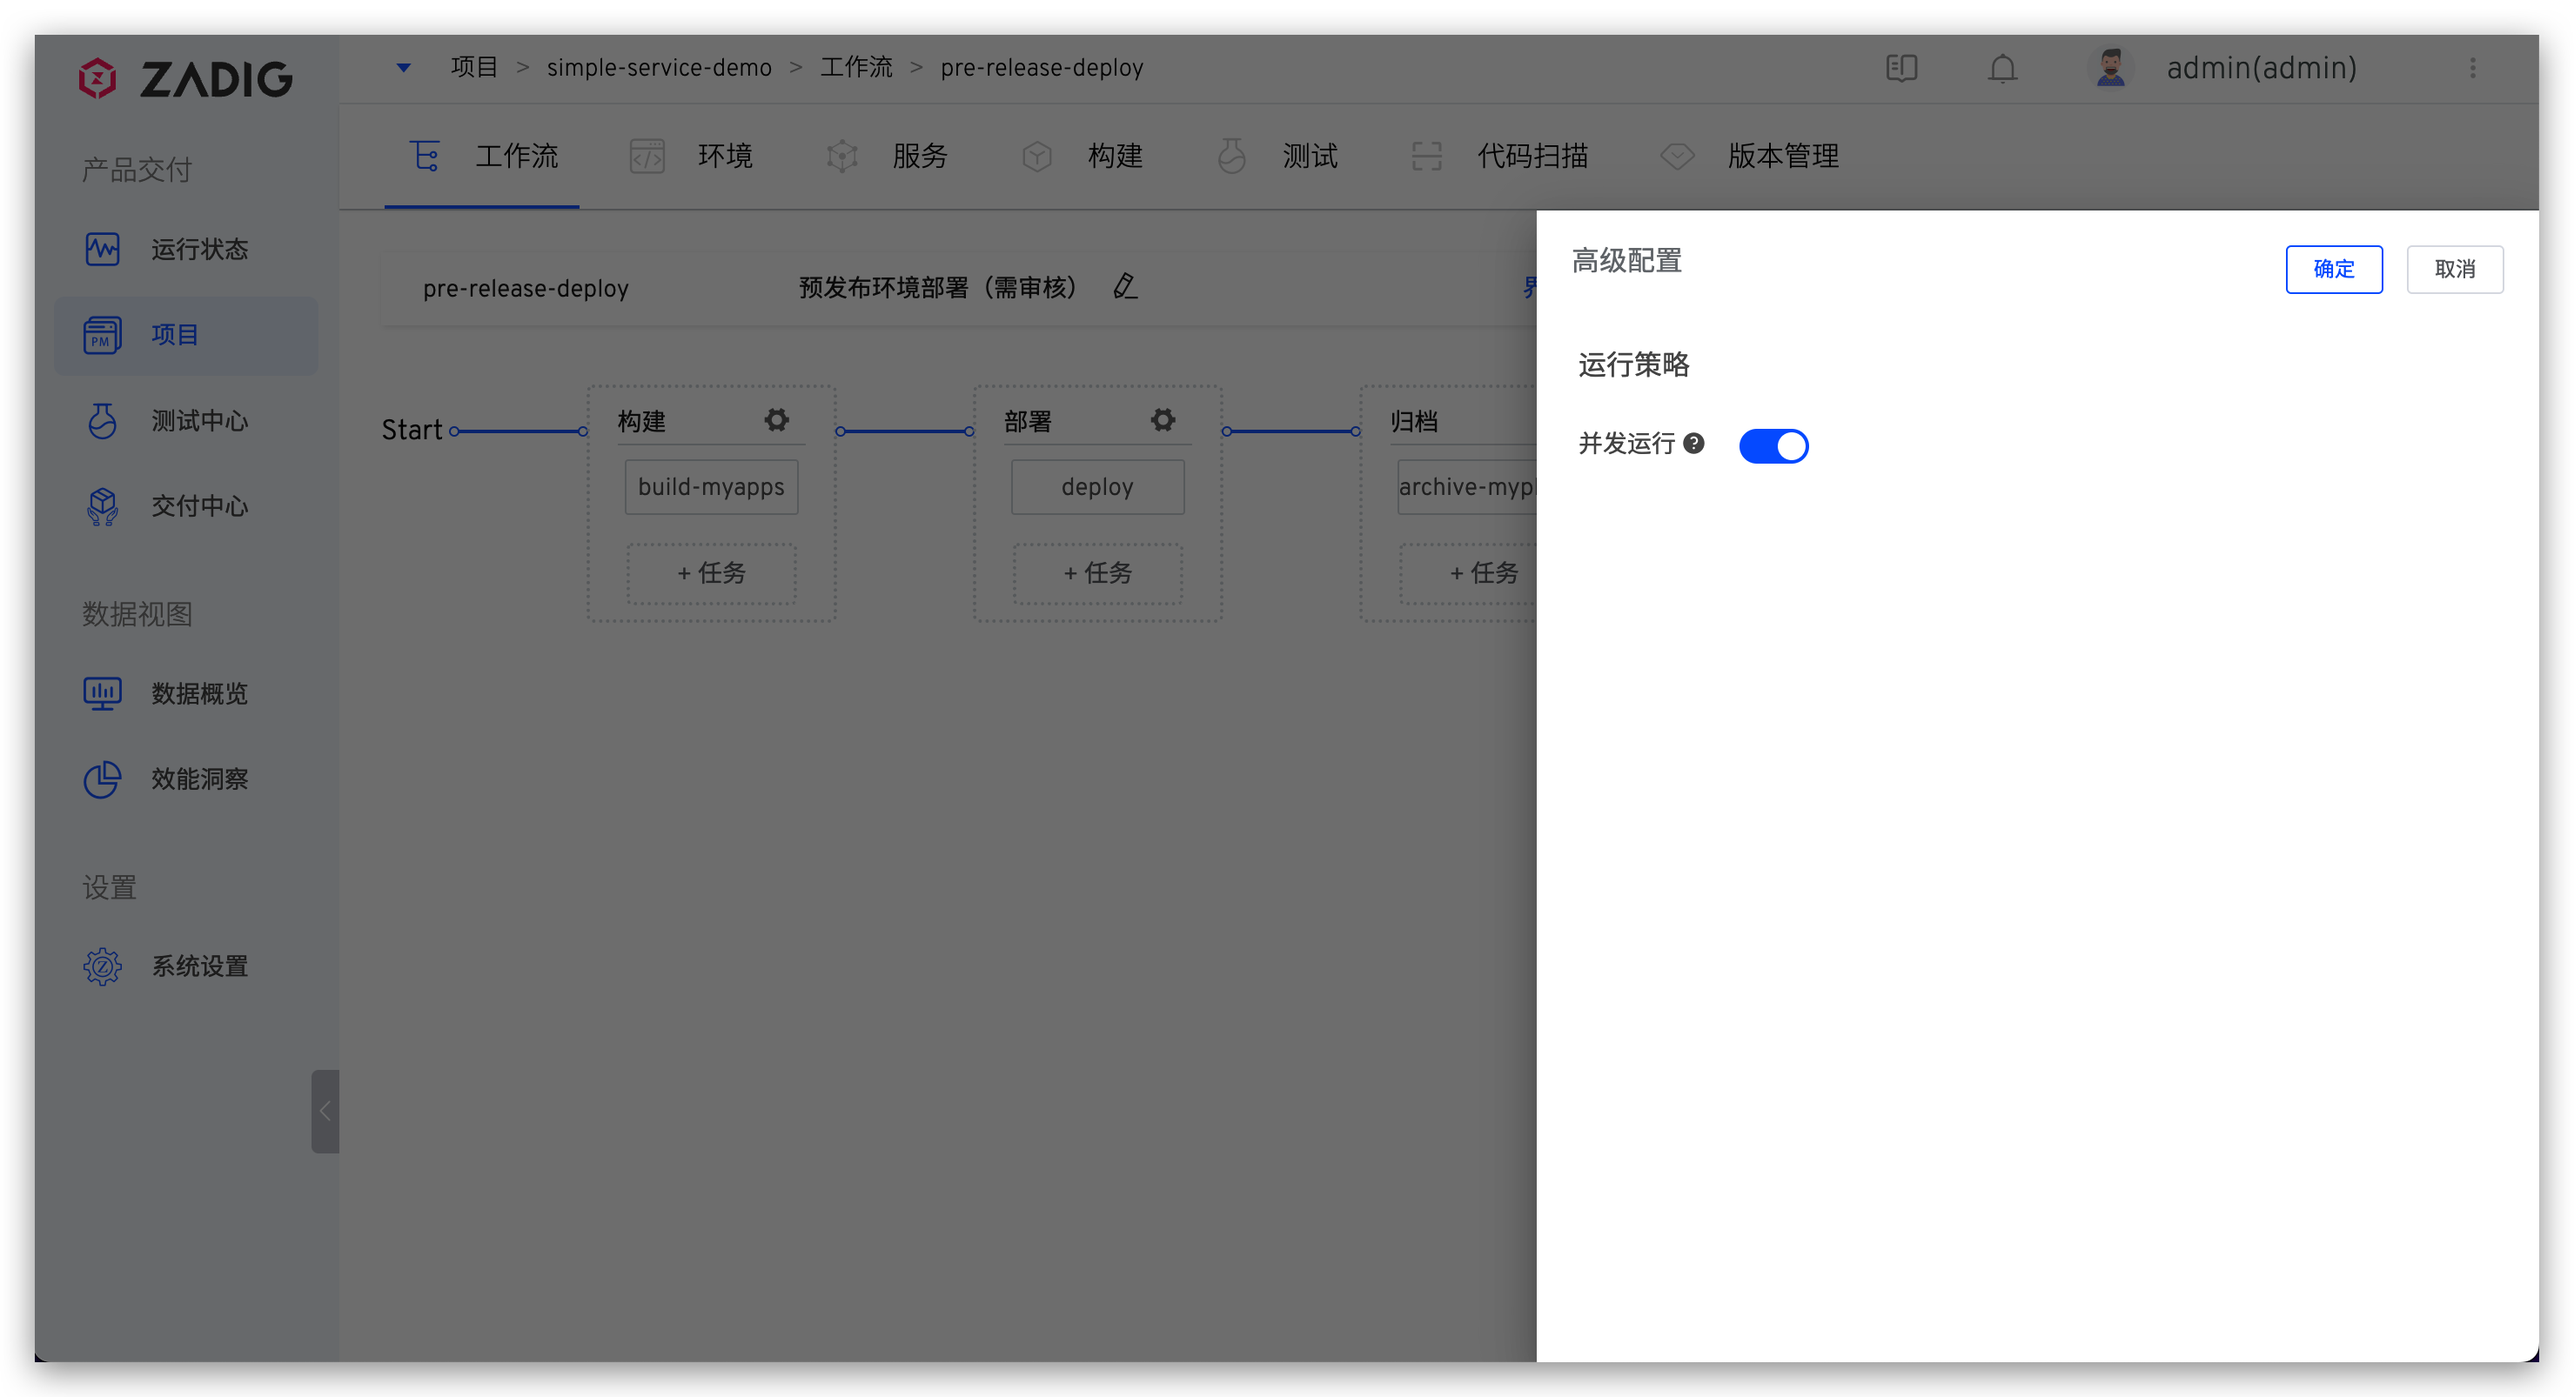
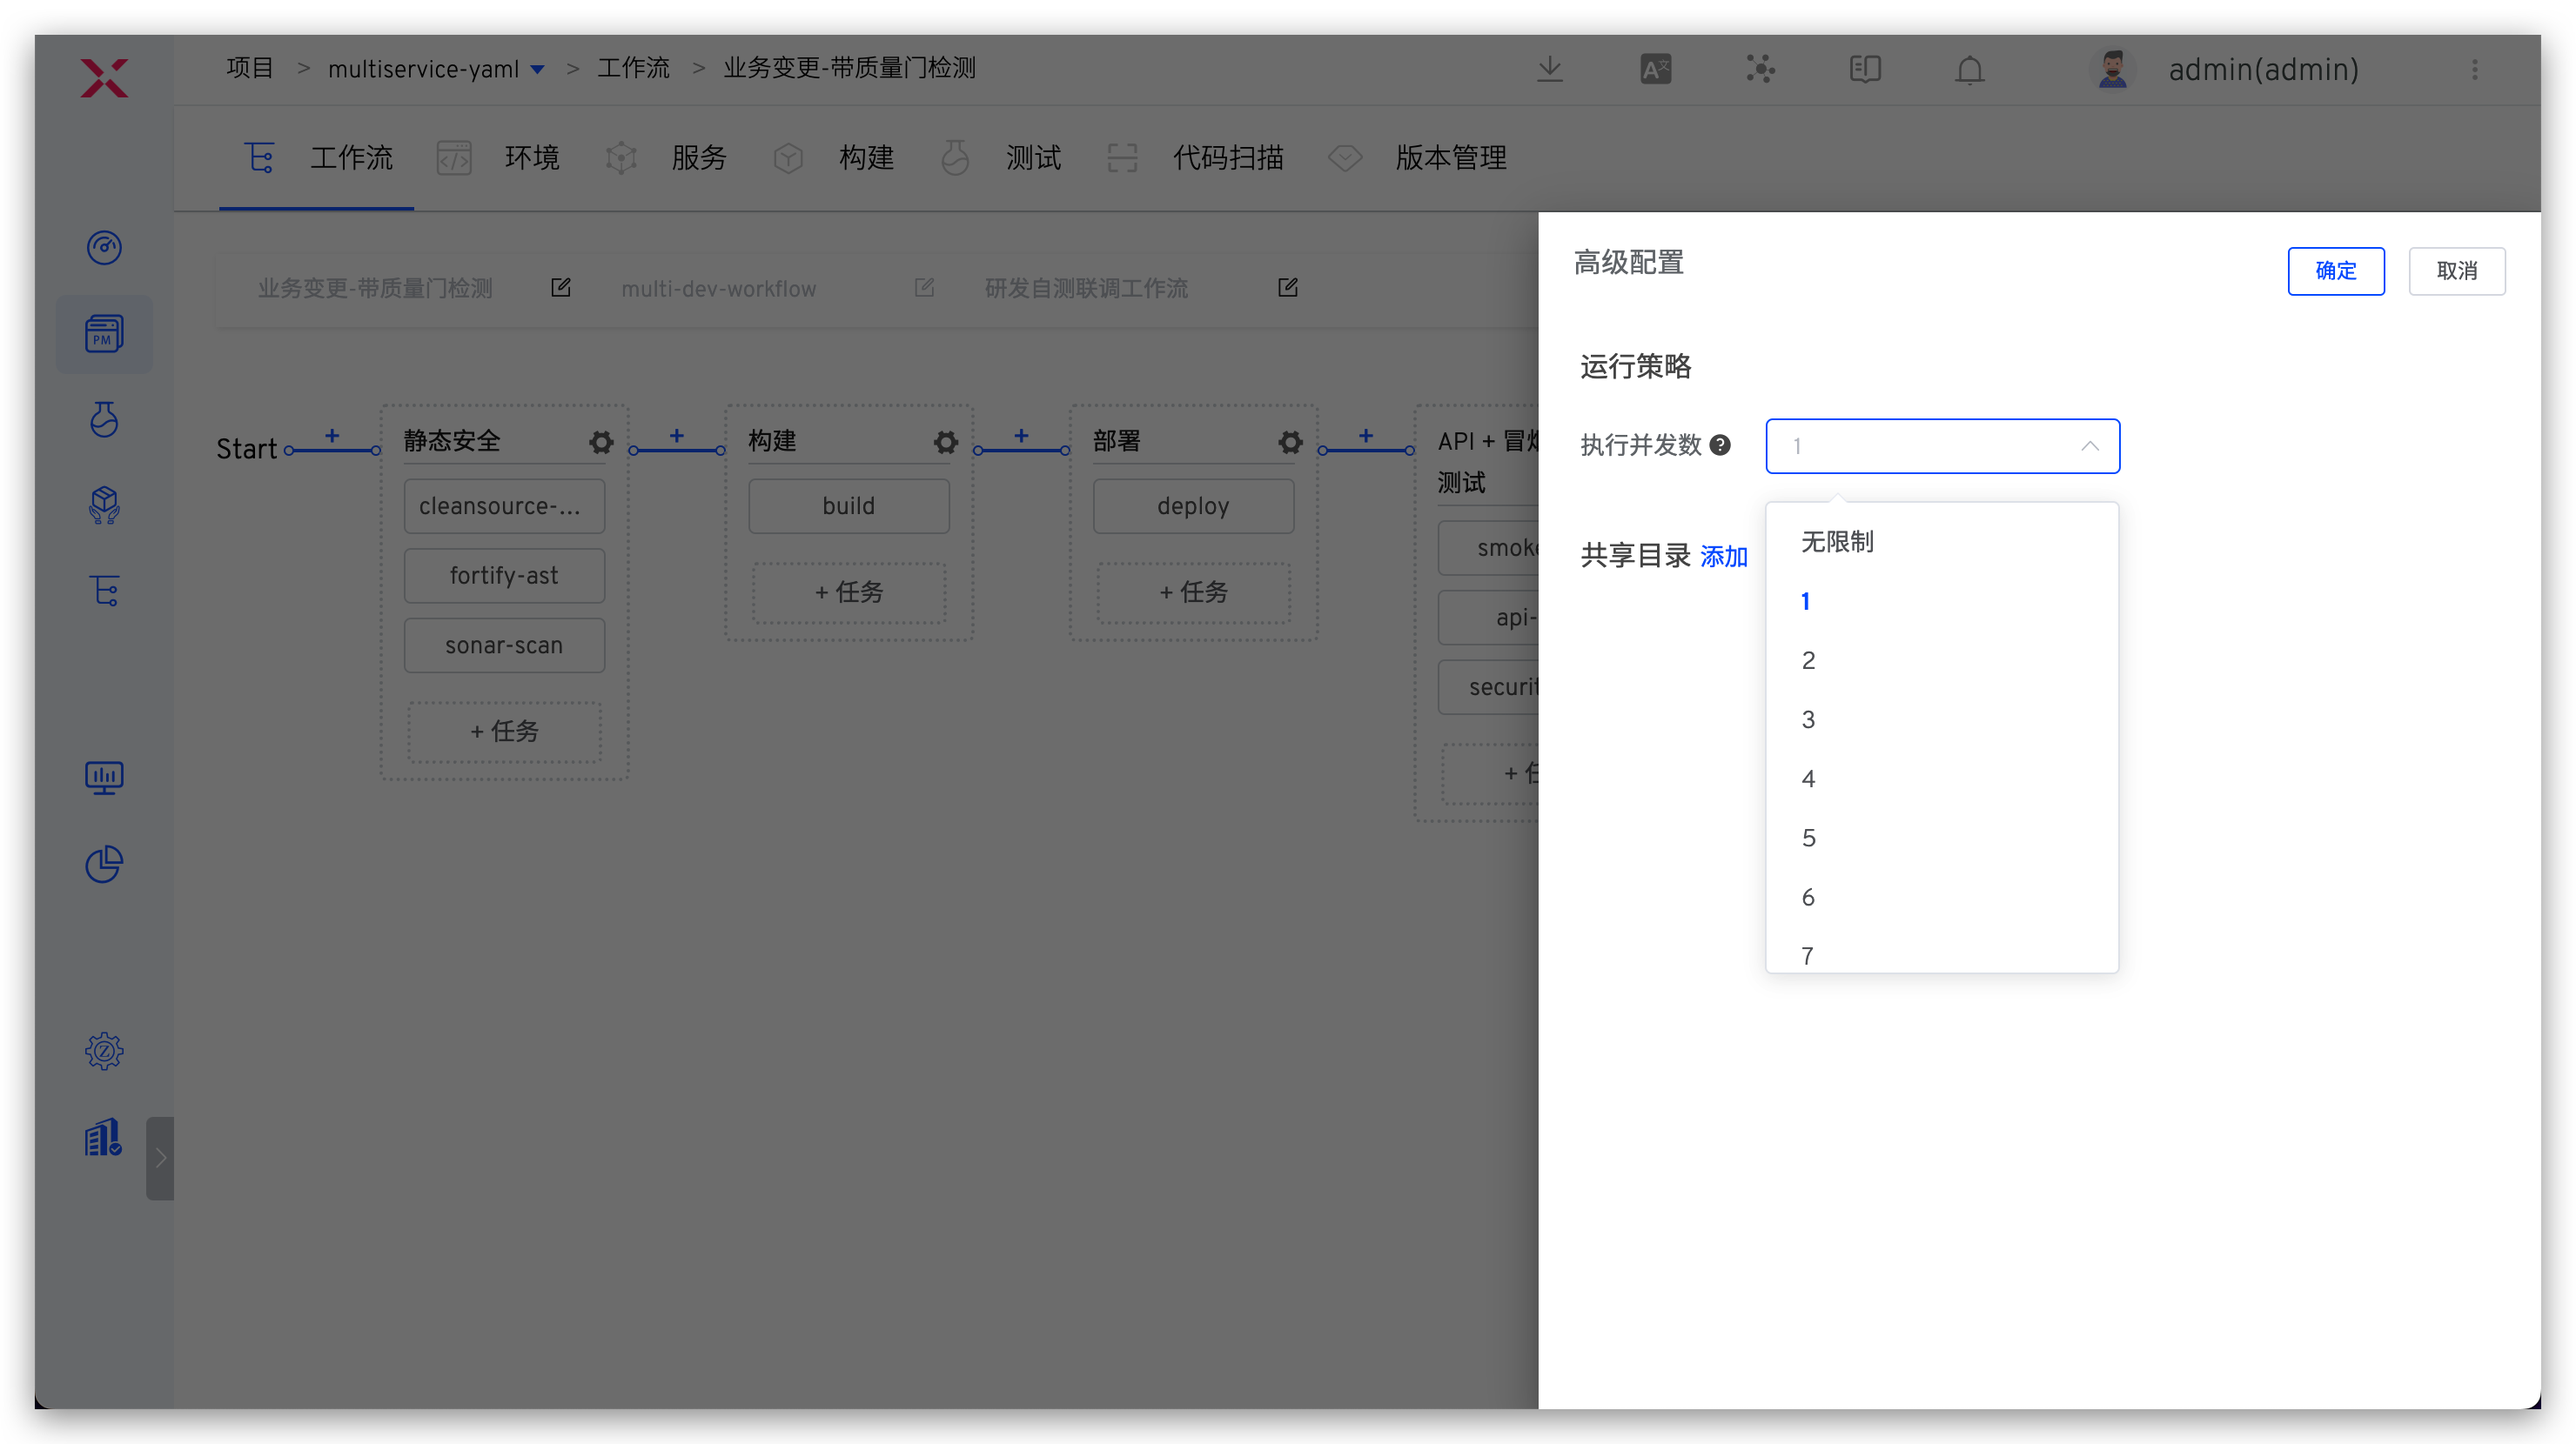
parallel setting

diff --git a/ZadigX v1.5.0/05.功能介绍/02.工作流/02.common_workflow.md b/ZadigX v1.5.0/05.功能介绍/02.工作流/02.common_workflow.md
@@ -410,7 +410,7 @@ multi_run: false
 ![common_workflow_config](../_images/lark_atuser_notification.png)
 
 ## 高级配置
-在高级配置中开启并发运行策略后，多次触发工作流执行产生的多条工作流任务将会并发执行，提升工作流运行效率。
+在`高级配置` > `运行策略`中设置并发数，多次触发工作流执行产生的多条工作流任务将会并发执行，提升工作流运行效率。
 
 ![common_workflow_config](../_images/common_workflow_config_strategy.png)
 
@@ -490,7 +490,7 @@ multi_run: false
 
 ## 自定义历史任务列字段
 
-可自定义任务列表中的列字段，将构建、部署、测试任务中的信息添加到列表中。自定义列字段的格式如下：
+可自定义历史任务列表中的列字段，将构建、部署、测试任务中的相关信息添加到列表中。自定义列字段的格式如下：
 
 - 服务组件(构建任务名称)
 - 代码信息(构建任务名称)

diff --git a/ZadigX v1.6.0/05.功能介绍/02.工作流/02.common_workflow.md b/ZadigX v1.6.0/05.功能介绍/02.工作流/02.common_workflow.md
@@ -472,7 +472,7 @@ multi_run: false
 
 ## 自定义历史任务列字段
 
-可自定义任务列表中的列字段，将构建、部署、测试任务中的信息添加到列表中。自定义列字段的格式如下：
+可自定义历史任务列表中的列字段，将构建、部署、测试任务中的相关信息添加到列表中。自定义列字段的格式如下：
 
 - 服务组件(构建任务名称)
 - 代码信息(构建任务名称)
